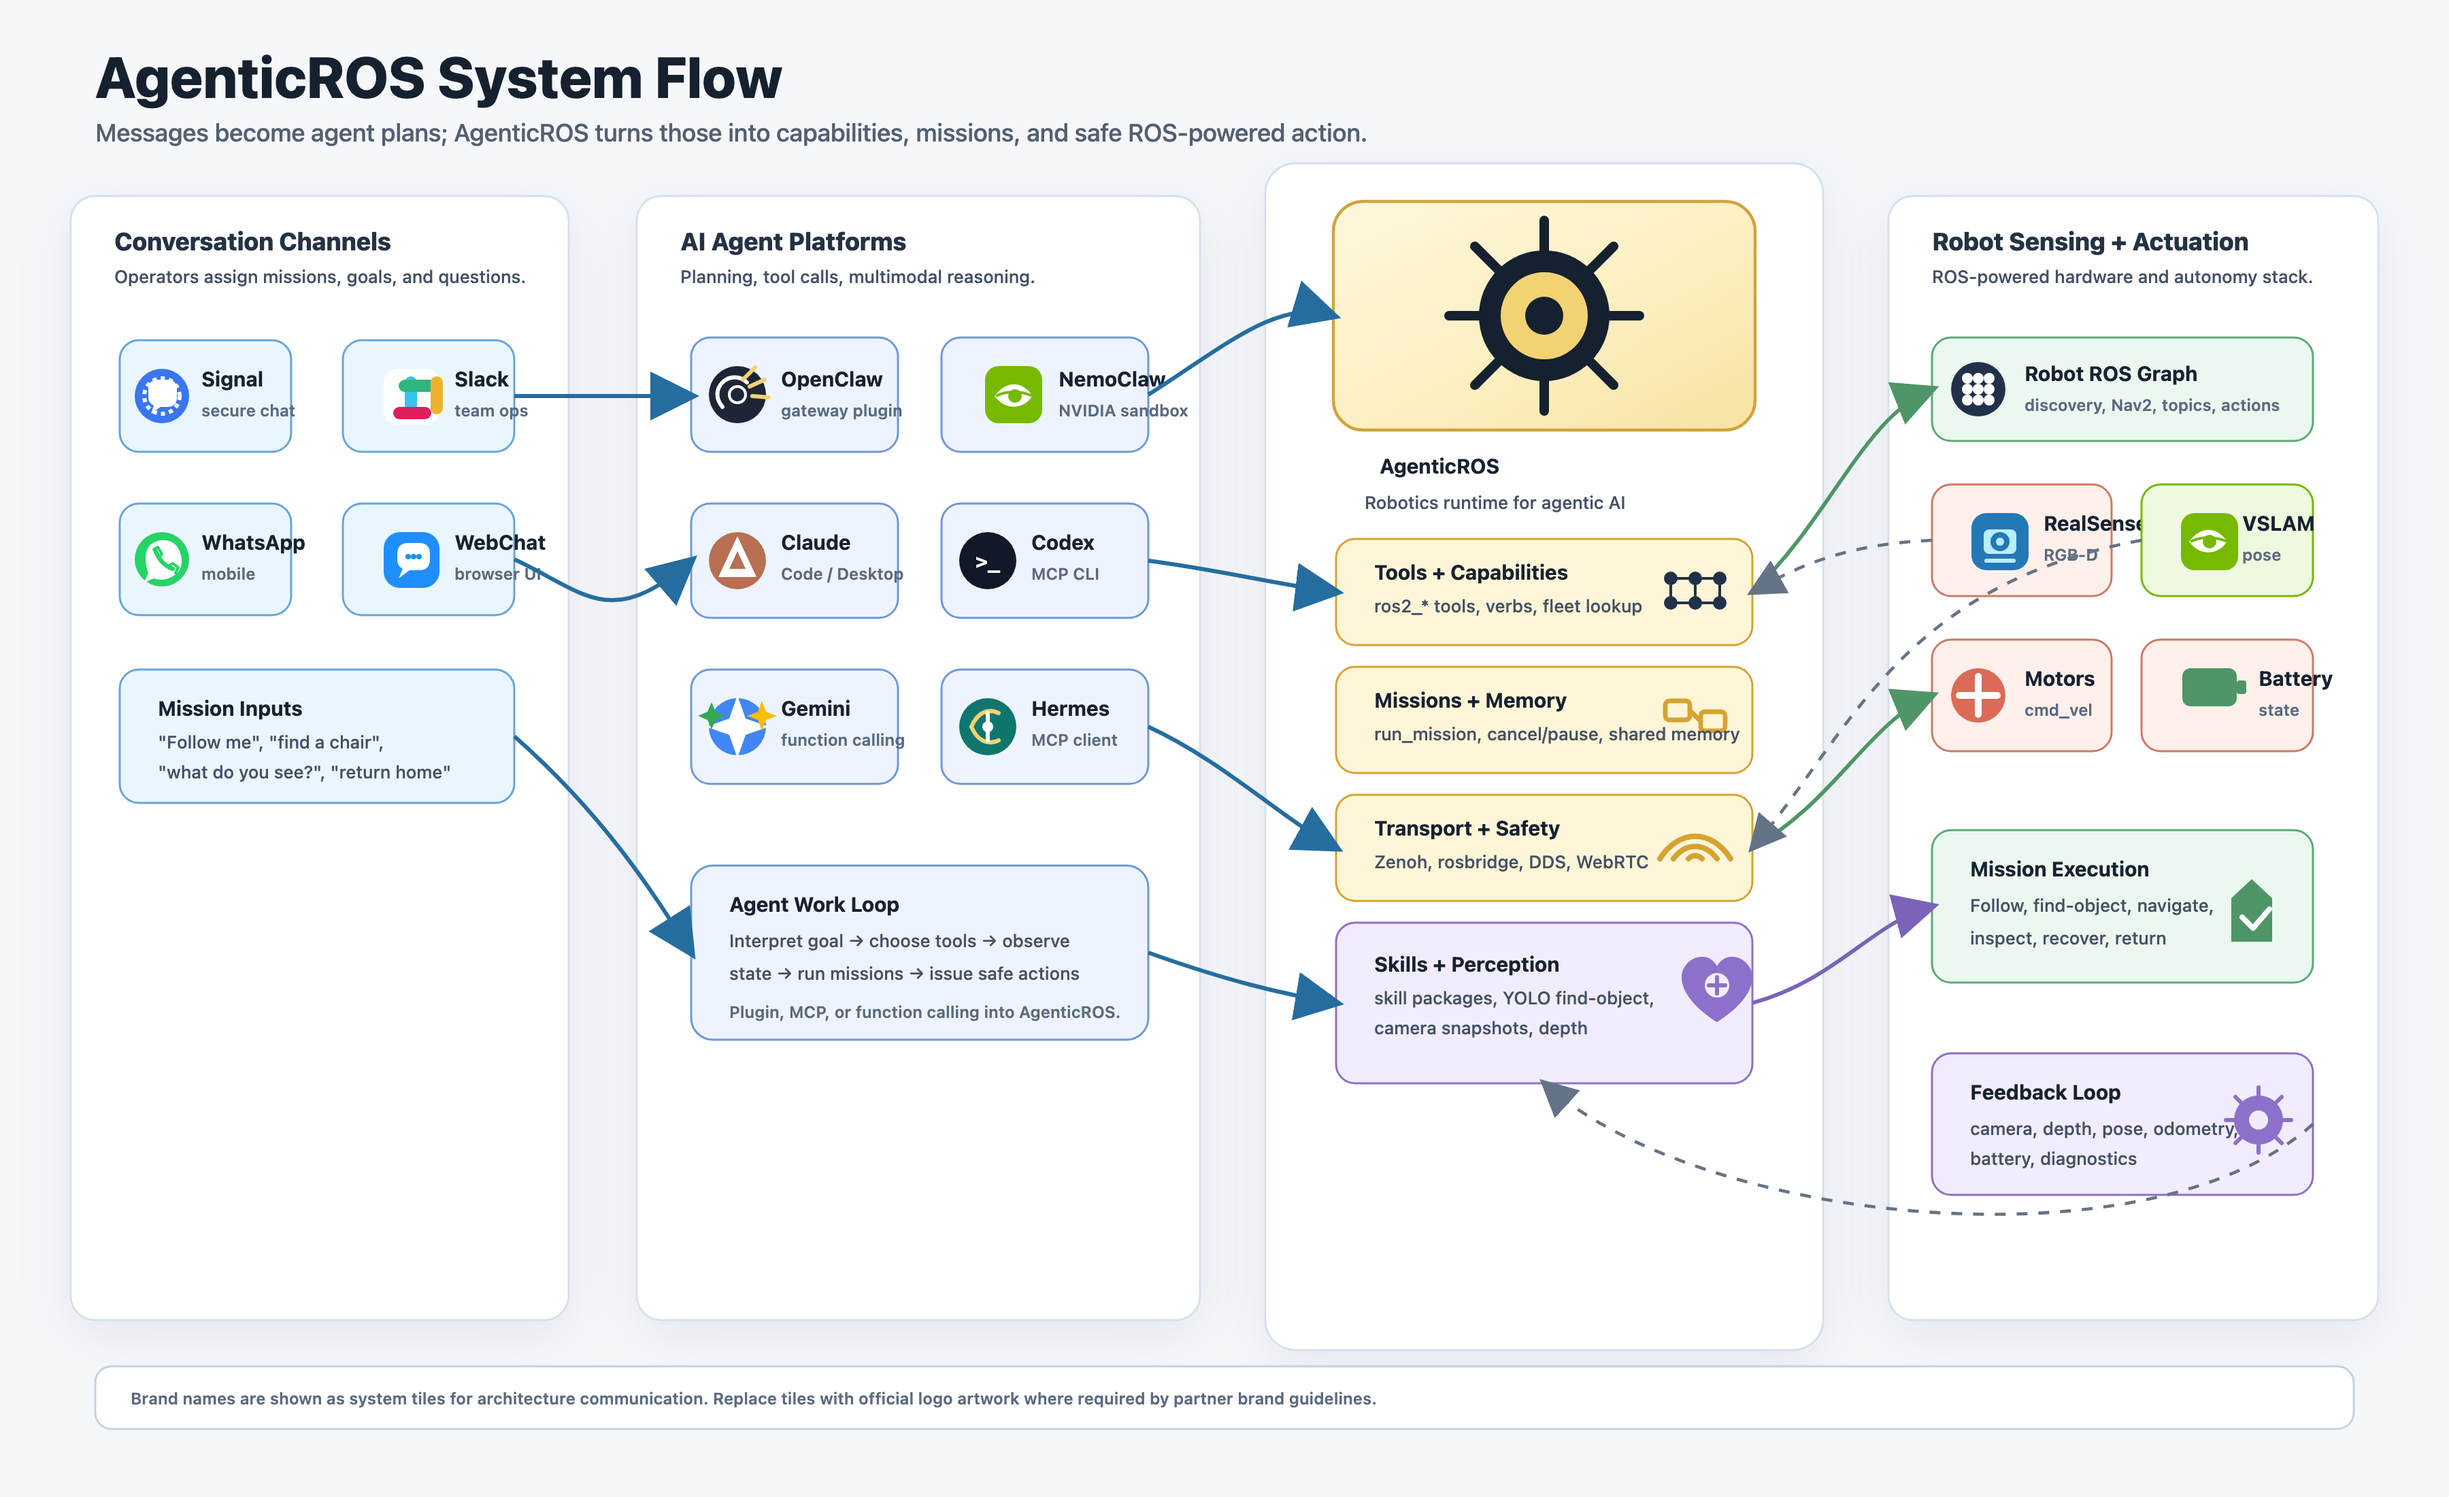
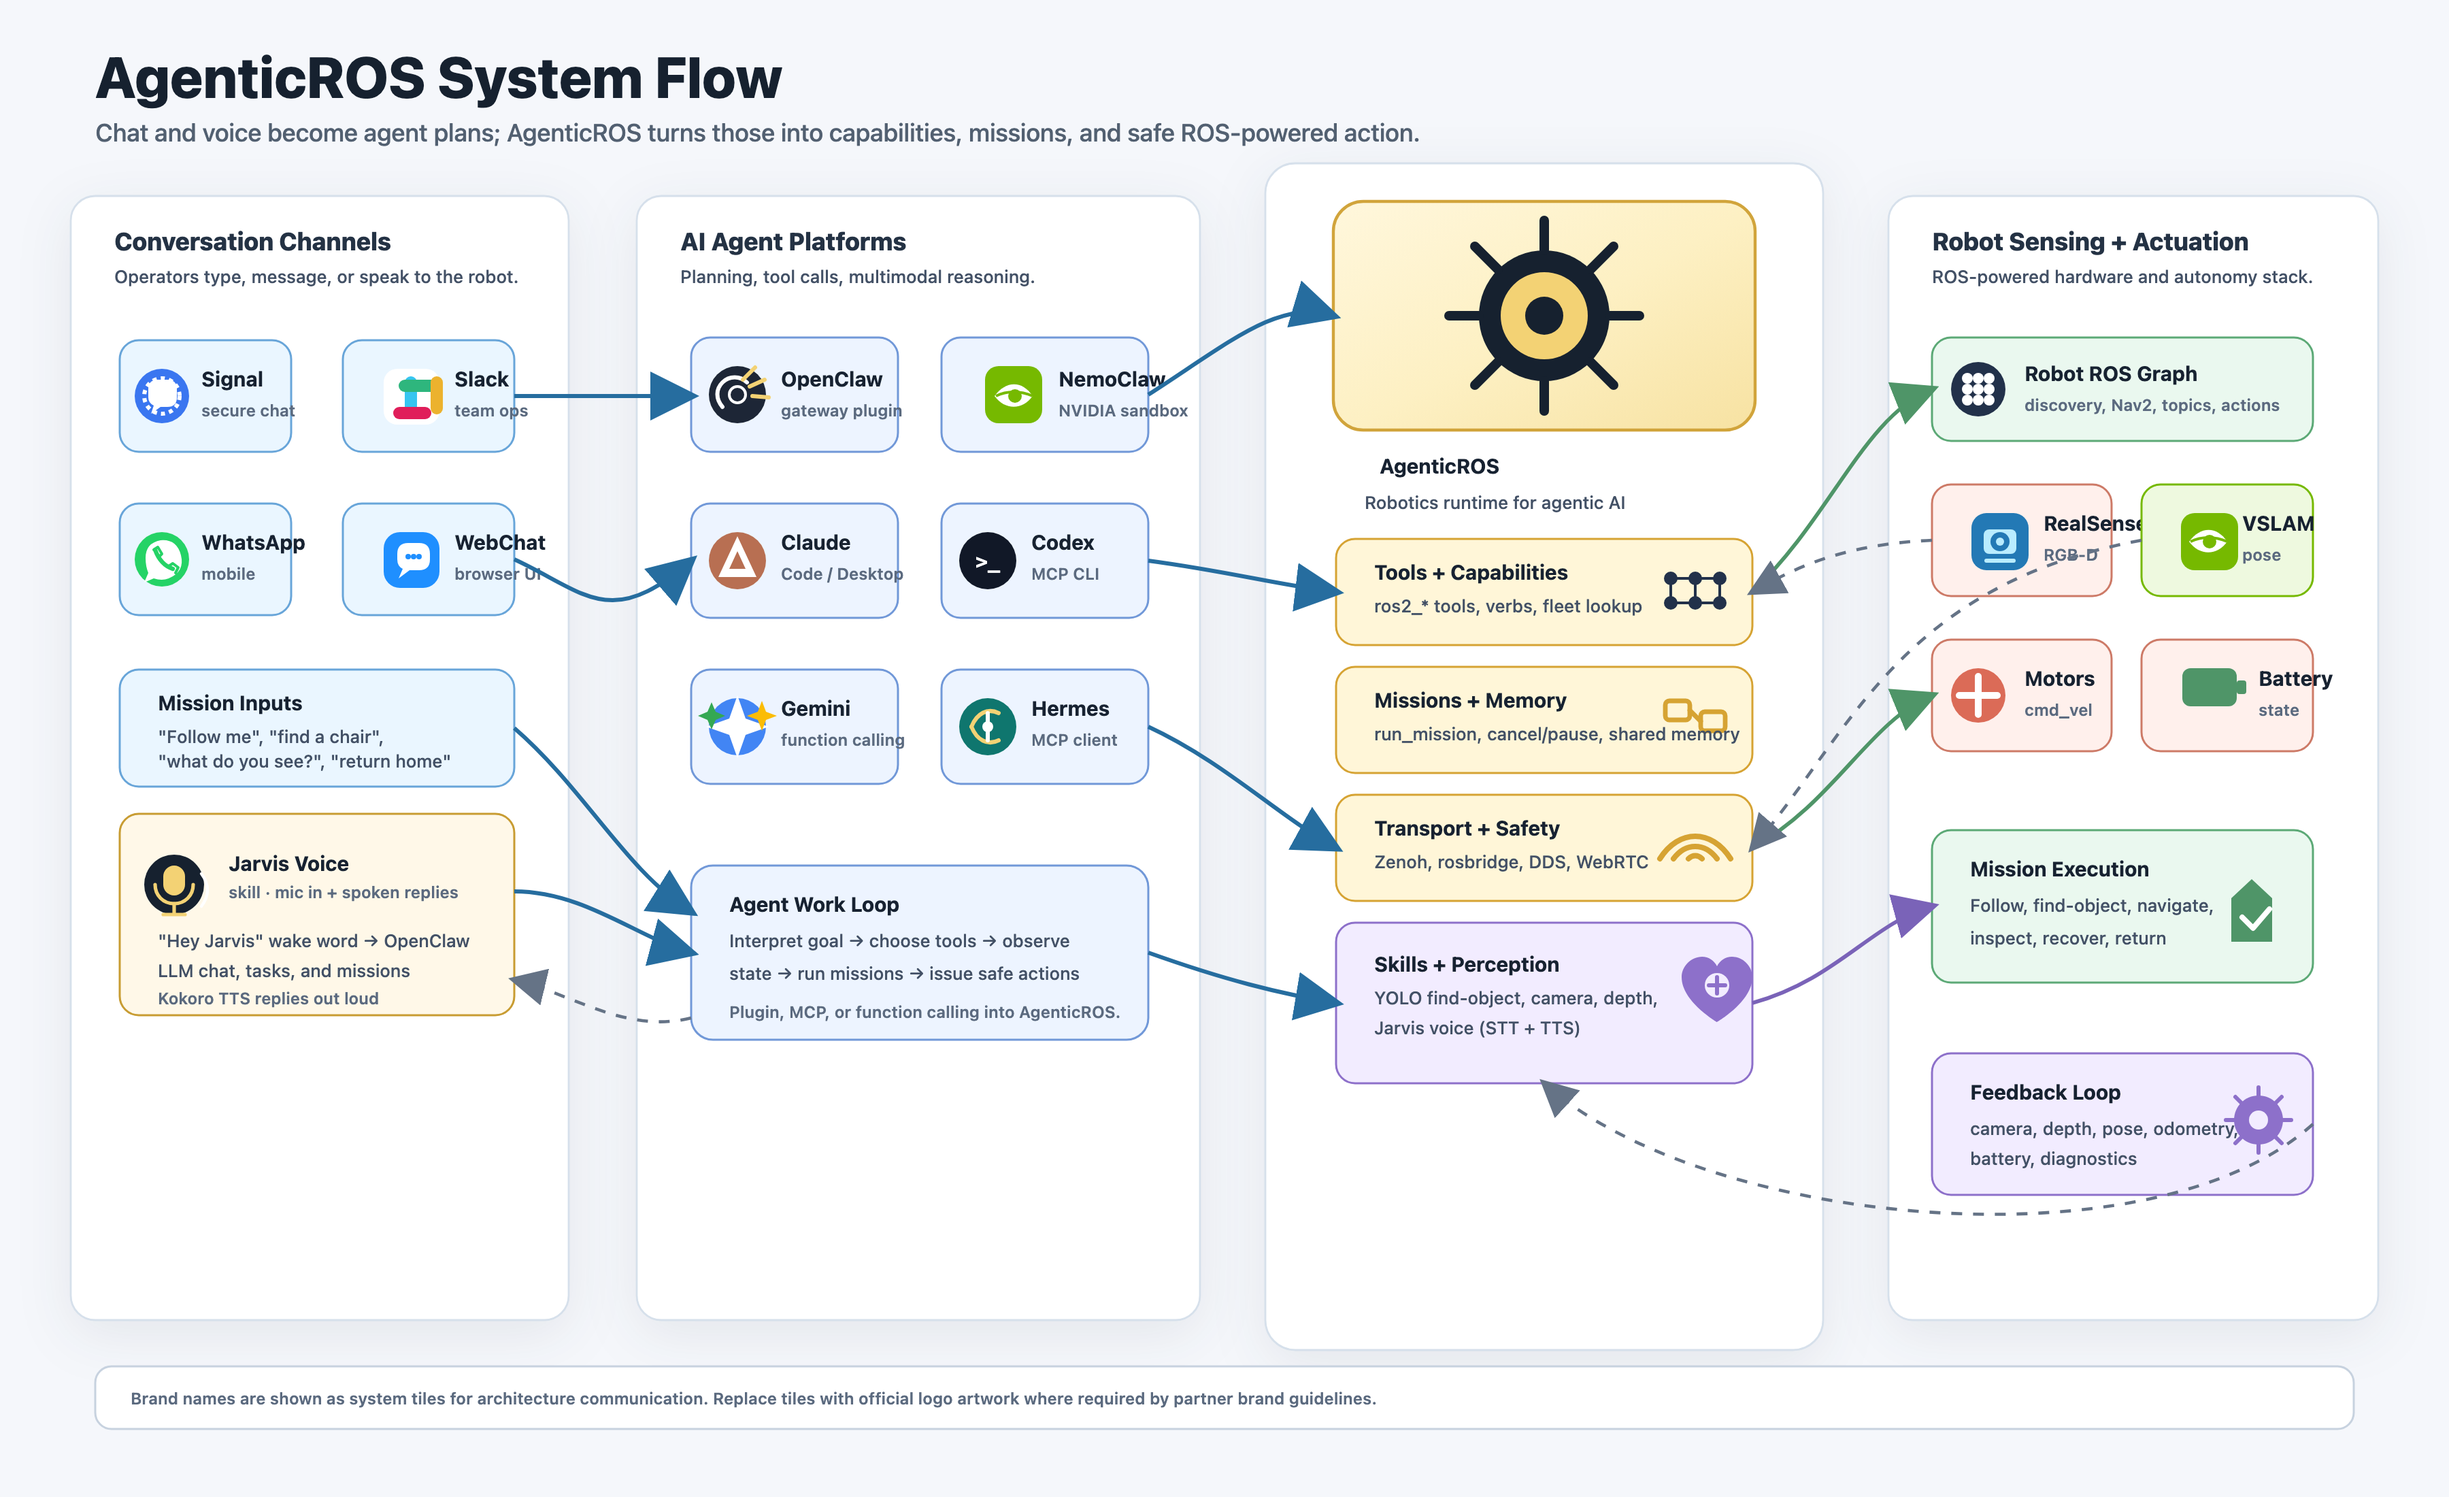
added jarvis skill to system flow architecture

diff --git a/docs/architecture.md b/docs/architecture.md
@@ -1,16 +1,19 @@
 # AgenticROS System Architecture
 
-![AgenticROS system flow: conversation channels → agent platforms → AgenticROS tools, missions, transports, and skills → ROS robot sensing and actuation](images/agenticros-architecture.png)
+![AgenticROS system flow: chat and Jarvis voice → agent platforms → AgenticROS tools, missions, transports, and skills → ROS robot sensing and actuation](images/agenticros-architecture.png)
 
 AgenticROS supports four deployment modes depending on where OpenClaw runs
 relative to the robot. The AI Gateway layer and ROS2 layer remain the same
 across all modes — only the transport between them changes.
 
-The diagram above is the product flow: conversation channels and agent
-platforms (OpenClaw, NemoClaw, Claude, Codex, Gemini, Hermes) call into
-AgenticROS — tools and capabilities, missions and memory, transport and
-safety, skills and perception — then out to the ROS 2 graph and robot
-hardware. Source SVG: [agenticros-system-flow.svg](agenticros-system-flow.svg).
+The diagram above is the product flow: conversation channels (including
+Jarvis voice in and spoken replies out) and agent platforms (OpenClaw,
+NemoClaw, Claude, Codex, Gemini, Hermes) call into AgenticROS — tools and
+capabilities, missions and memory, transport and safety, skills and
+perception — then out to the ROS 2 graph and robot hardware. Jarvis is
+the `chrismatthieu/jarvis` skill: wake-word speech becomes the same
+OpenClaw agent loop as chat, covering ordinary LLM conversation and
+AgenticROS tasks and missions. Source SVG: [agenticros-system-flow.svg](agenticros-system-flow.svg).
 The text diagrams below break out each deployment mode in more detail.
 A package-level diagram of adapters and `ros2_ws` nodes is in
 [agenticros-architecture.svg](agenticros-architecture.svg).

diff --git a/README.md b/README.md
@@ -58,7 +58,7 @@ Then chat in OpenClaw web UI or Hermes: *"List ROS topics"*, *"drive forward slo
 
 ## Architecture
 
-![AgenticROS system flow: conversation channels → agent platforms → AgenticROS tools, missions, transports, and skills → ROS robot sensing and actuation](docs/images/agenticros-architecture.png)
+![AgenticROS system flow: chat and Jarvis voice → agent platforms → AgenticROS tools, missions, transports, and skills → ROS robot sensing and actuation](docs/images/agenticros-architecture.png)
 
 - **Core** (`packages/core`): Platform-agnostic ROS2 transport (Zenoh, rosbridge, local DDS, WebRTC), capability/mission runtime, shared memory, config schema, and types. No dependency on any specific AI platform.
 - **Adapters**: OpenClaw plugin (`packages/agenticros`, including [NemoClaw](docs/nemoclaw.md)); MCP server (`packages/agenticros-claude-code`) for **Claude Code / Desktop / Dispatch**, **Codex CLI**, and **Hermes Agent**; Gemini CLI (`packages/agenticros-gemini`) via function calling. See [packages/agenticros-claude-code/README.md](packages/agenticros-claude-code/README.md), [docs/codex-setup.md](docs/codex-setup.md), and [docs/hermes-setup.md](docs/hermes-setup.md).
